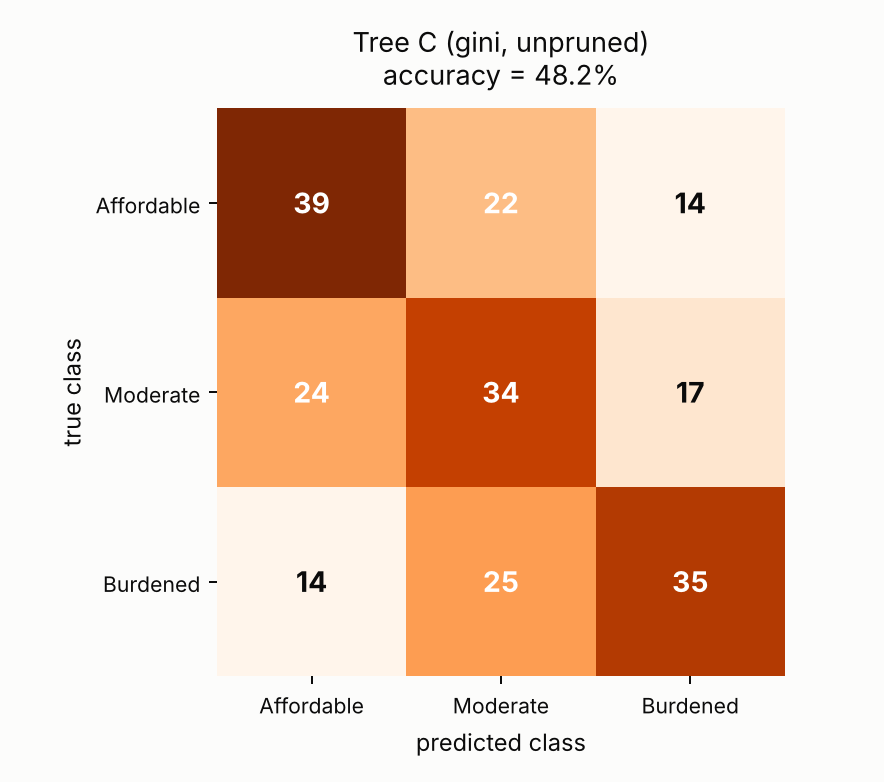
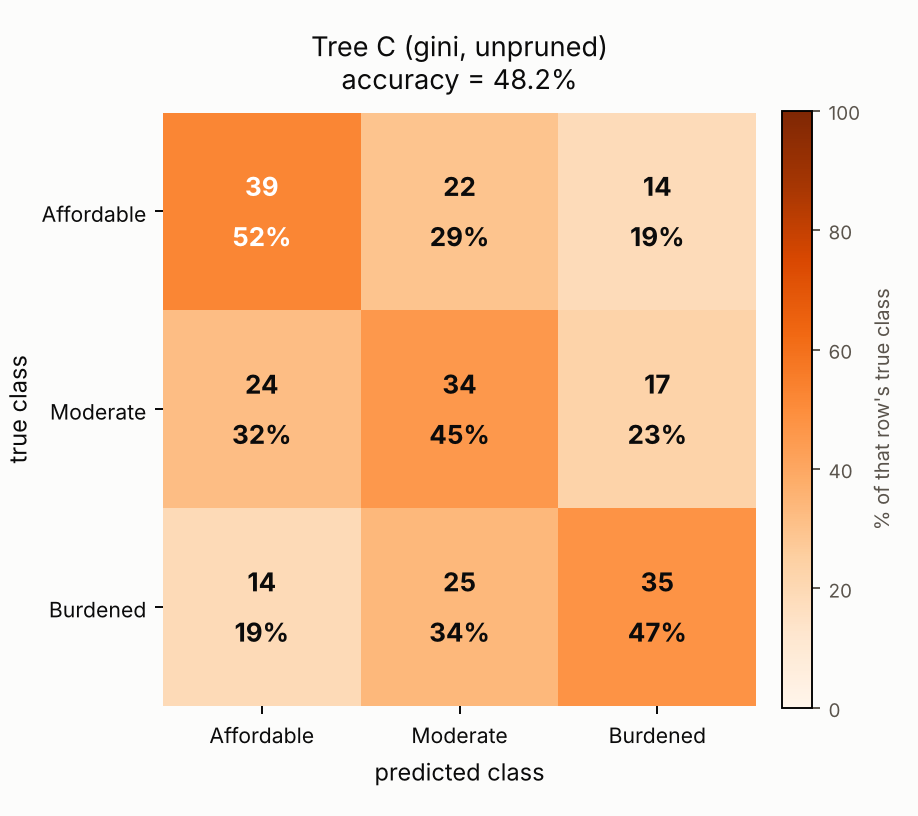
Show confusion matrices as row percentages, not raw counts
Color intensity and the printed number now both reflect what share of
each true class landed in each predicted class, so the diagonal/
off-diagonal error pattern reads at a glance instead of being pulled
around by small class-size differences in the test set.

Claude-Session: https://claude.ai/code/session_011VdLBjRcMVqV27L5NQUpBP

diff --git a/run_decision_trees.py b/run_decision_trees.py
@@ -78,10 +78,16 @@ for name, clf in trees.items():
     rows.append([name, acc, depth, leaves])
     trees[name] = clf  # fitted
 
-    fig, ax = plt.subplots(figsize=(5.2, 4.6), dpi=170)
+    # row-normalize: each row sums to 100%, so color intensity shows what
+    # share of a true class landed in each predicted class, not the raw
+    # count (which is pulled around by any class-size imbalance in the
+    # 224-metro test set).
+    cm_pct = cm / cm.sum(axis=1, keepdims=True) * 100
+
+    fig, ax = plt.subplots(figsize=(5.4, 4.8), dpi=170)
     fig.patch.set_facecolor(SURFACE)
     ax.set_facecolor(SURFACE)
-    im = ax.imshow(cm, cmap="Oranges")
+    im = ax.imshow(cm_pct, cmap="Oranges", vmin=0, vmax=100)
     ax.set_xticks(range(len(CLASSES))); ax.set_yticks(range(len(CLASSES)))
     ax.set_xticklabels(CLASSES, fontsize=9, color=INK)
     ax.set_yticklabels(CLASSES, fontsize=9, color=INK)
@@ -89,13 +95,17 @@ for name, clf in trees.items():
     ax.set_ylabel("true class", fontsize=10, color=INK)
     for i in range(len(CLASSES)):
         for j in range(len(CLASSES)):
-            val = cm[i, j]
-            color = "white" if val > cm.max() / 2 else INK
-            ax.text(j, i, str(val), ha="center", va="center", color=color, fontsize=12, fontweight="bold")
+            pct = cm_pct[i, j]
+            color = "white" if pct > 50 else INK
+            ax.text(j, i, f"{cm[i, j]}\n{pct:.0f}%", ha="center", va="center", color=color,
+                    fontsize=11, fontweight="bold", linespacing=1.6)
     short = name.split(" (")[0].replace(" ", "-").lower()
     ax.set_title(f"{name}\naccuracy = {acc:.1%}", fontsize=11.5, color=INK, pad=10)
     for spine in ax.spines.values():
         spine.set_visible(False)
+    cbar = fig.colorbar(im, ax=ax, fraction=0.046, pad=0.04)
+    cbar.set_label("% of that row's true class", fontsize=8.5, color=MUTED)
+    cbar.ax.tick_params(labelsize=8, colors=MUTED)
     fig.tight_layout()
     fig.savefig(f"{IMG_DIR}/dt-confusion-{short}.png", facecolor=SURFACE)
     plt.close(fig)

diff --git a/run_naive_bayes.py b/run_naive_bayes.py
@@ -80,10 +80,16 @@ print("BernoulliNB confusion matrix (rows=true, cols=pred):\n", bnb_cm)
 
 # ---------------------------------------------------------------- confusion matrix figures
 def plot_cm(cm, acc, title, fname):
+    # row-normalize: each row sums to 100%, so color intensity shows what
+    # share of a true class landed in each predicted class, not the raw
+    # count (which is pulled around by any class-size imbalance in the
+    # 224-metro test set).
+    cm_pct = cm / cm.sum(axis=1, keepdims=True) * 100
+
     fig, ax = plt.subplots(figsize=(5.4, 4.8), dpi=170)
     fig.patch.set_facecolor(SURFACE)
     ax.set_facecolor(SURFACE)
-    im = ax.imshow(cm, cmap="Oranges")
+    im = ax.imshow(cm_pct, cmap="Oranges", vmin=0, vmax=100)
     ax.set_xticks(range(len(CLASSES)))
     ax.set_yticks(range(len(CLASSES)))
     ax.set_xticklabels(CLASSES, fontsize=10, color=INK)
@@ -92,12 +98,16 @@ def plot_cm(cm, acc, title, fname):
     ax.set_ylabel("true class", fontsize=11, color=INK)
     for i in range(len(CLASSES)):
         for j in range(len(CLASSES)):
-            val = cm[i, j]
-            color = "white" if val > cm.max() / 2 else INK
-            ax.text(j, i, str(val), ha="center", va="center", color=color, fontsize=13, fontweight="bold")
+            pct = cm_pct[i, j]
+            color = "white" if pct > 50 else INK
+            ax.text(j, i, f"{cm[i, j]}\n{pct:.0f}%", ha="center", va="center", color=color,
+                    fontsize=12, fontweight="bold", linespacing=1.6)
     ax.set_title(f"{title}\naccuracy = {acc:.1%}", fontsize=12.5, color=INK, pad=12)
     for spine in ax.spines.values():
         spine.set_visible(False)
+    cbar = fig.colorbar(im, ax=ax, fraction=0.046, pad=0.04)
+    cbar.set_label("% of that row's true class", fontsize=8.5, color=MUTED)
+    cbar.ax.tick_params(labelsize=8, colors=MUTED)
     fig.tight_layout()
     fig.savefig(f"{IMG_DIR}/{fname}", facecolor=SURFACE)
     plt.close(fig)
